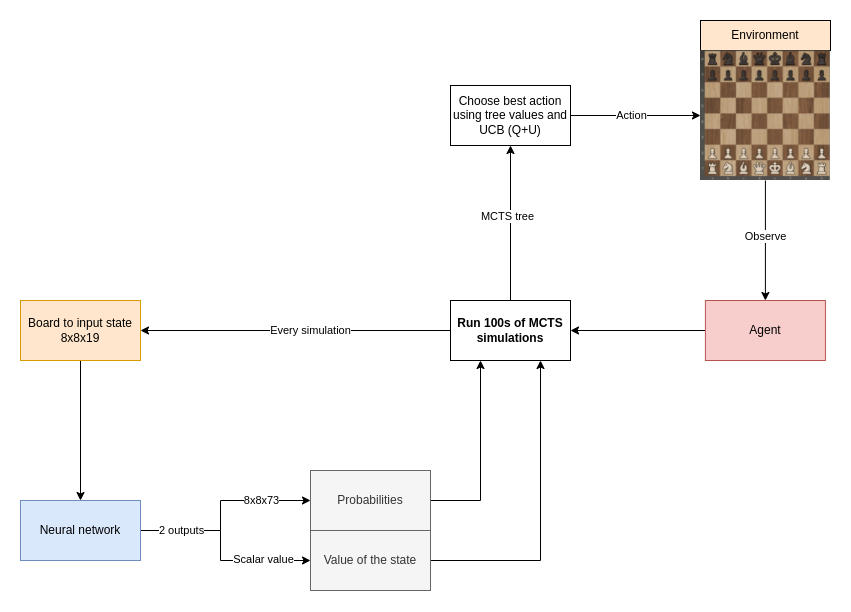
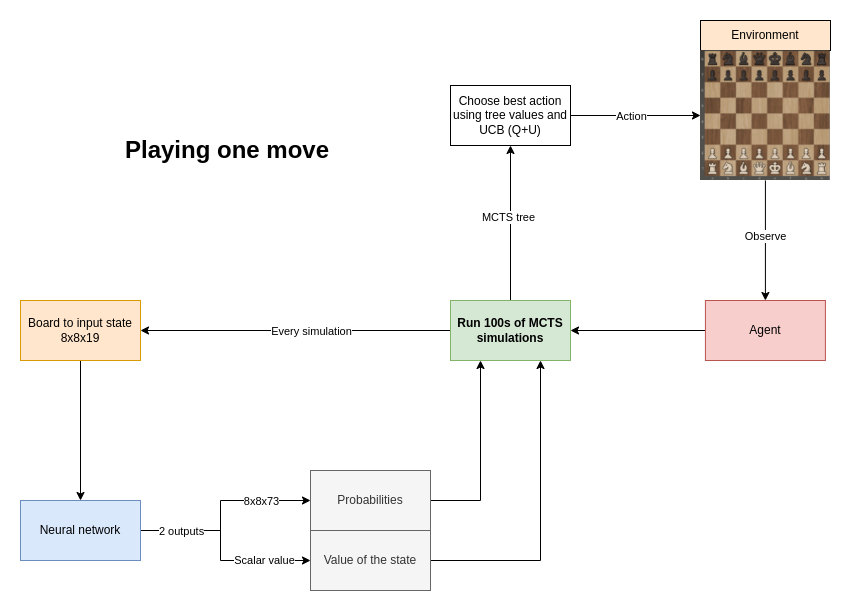
readme: more info, class structure

diff --git a/config.py b/config.py
@@ -38,12 +38,12 @@ OUTPUT_SHAPE = (8*8*amount_of_planes, 1)
 # TODO: change if necessary. AZ started with 0.2 and then dropped three times to 0.02, 0.002 and 0.0002
 LEARNING_RATE = 0.2
 # filters for the convolutional layers (AZ: 256)
-CONVOLUTION_FILTERS = 32
+CONVOLUTION_FILTERS = 256
 # amount of hidden residual layers
 # According to the AlphaGo Zero paper:
 #    "For the larger run (40 block, 40 days), MCTS search parameters were re-optimised using the neural network trained in the smaller run (20 block, 3 days)."
 # ==> First train a small NN, then optimize longer with a larger NN.
-AMOUNT_OF_RESIDUAL_BLOCKS = 1
+AMOUNT_OF_RESIDUAL_BLOCKS = 19
 
 # where to save the model
 MODEL_FOLDER = './models/'

diff --git a/main.py b/main.py
@@ -54,7 +54,7 @@ if __name__ == "__main__":
     env = ChessEnv()
 
     game = Game(env=env, white=white, black=black)
-    for _ in range(20):
+    for _ in range(10):
         game.play_one_move()
     # print("Plotting tree")
     # game.white.mcts.plot_tree()

diff --git a/README.md b/README.md
@@ -1,5 +1,7 @@
 # Chess engine using Deep Reinforcement learning
 
+# How does it work?
+
 ### Every move, run a high number amount of MCTS simulations:
 
 ![MCTS steps for 1 simulation](img/MCTS-steps.png "MCTS steps for 1 simulation")
@@ -41,13 +43,22 @@
 
 * Sample a mini-batch of positions from a high amount of games
 * Train the network on the mini-batch
+* Use a custom loss function (TODO)
 
 ### Evaluate the network
 
-To know whether the new network is better than the previous one, let the two networks play
-for a high amount of games. Whoever wins the most games, is the best network.
+To know whether the new network is better than the previous one, let the new network play
+against the previous best for a high amount of games. Whoever wins the most games, is the new best network.
 
-## Useful sources
+### Class structure
+
+![Class structure](img/class-structure.png "Class structure")
+
+Each player needs to have its own agent object. Every agent has its own 
+MCTS tree and neural network.
+
+
+# Useful sources
 
 ### Wikipedia articles & Library documentation
 
